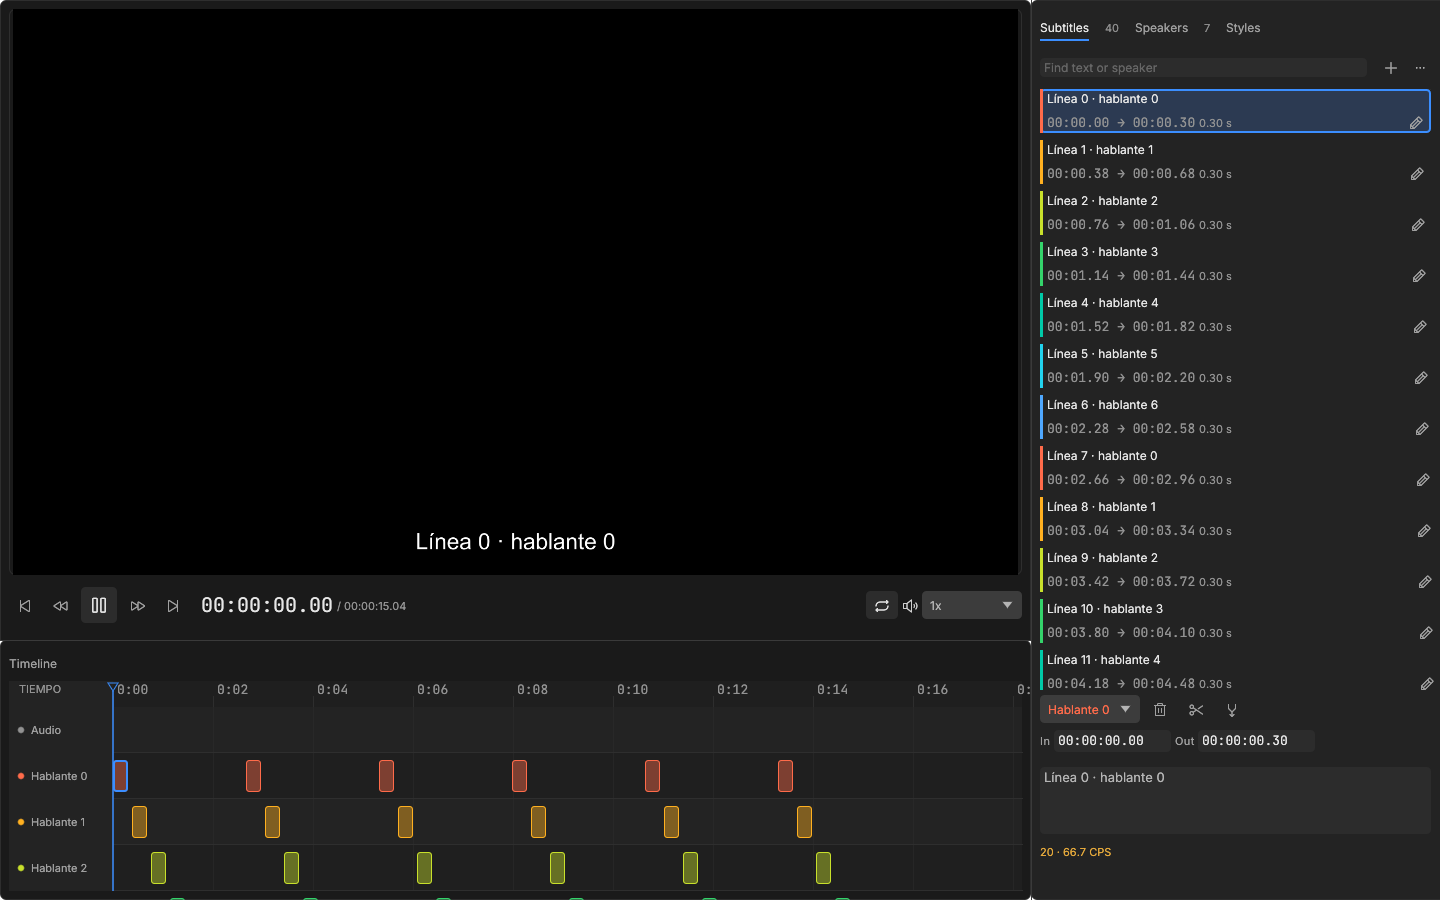
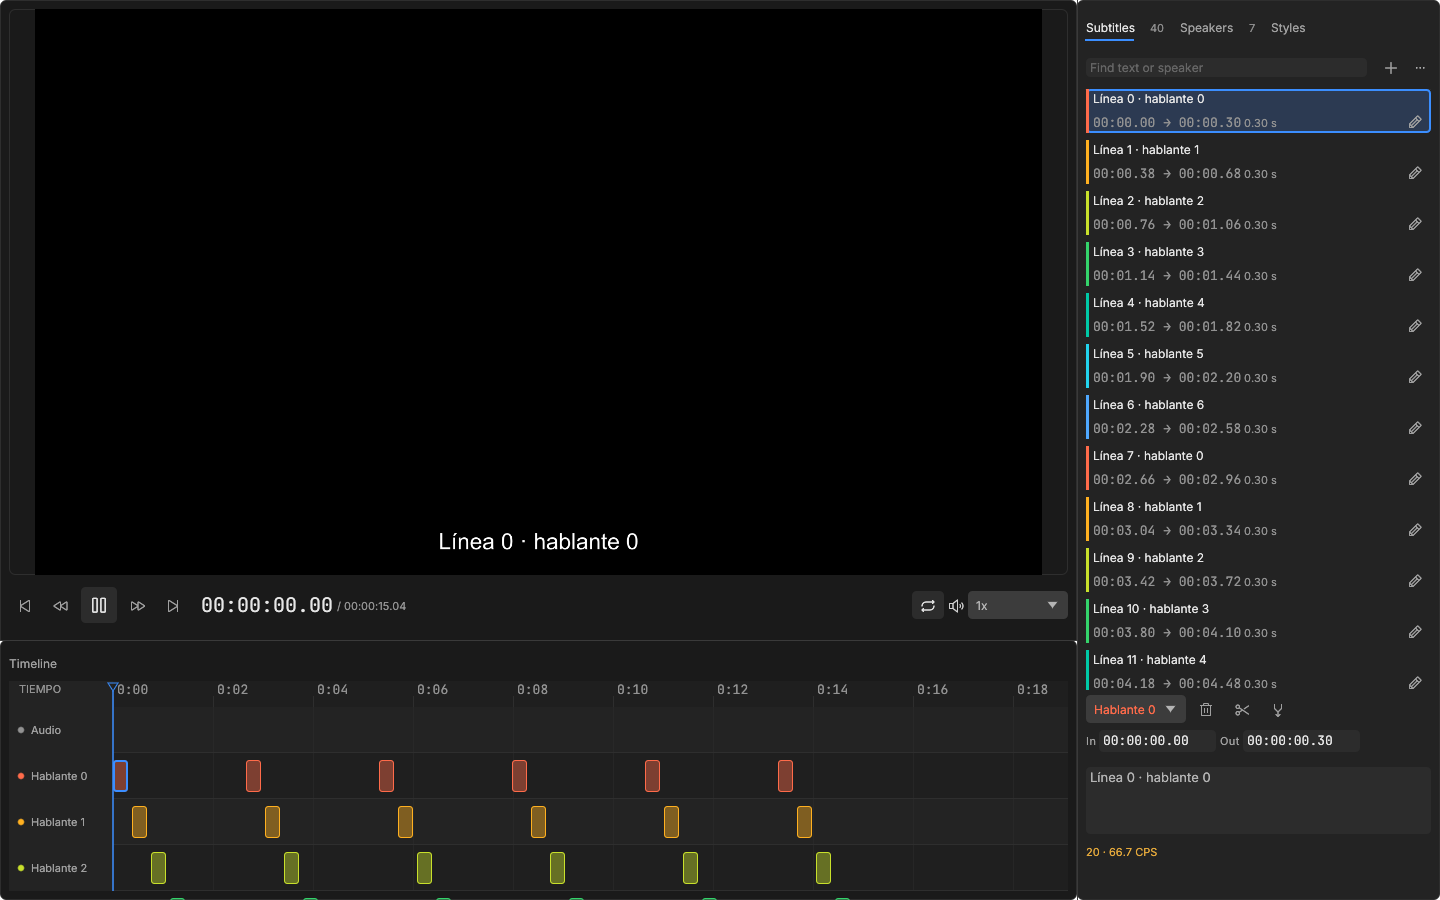
fix: evitar que el panel derecho crezca solo
El lapiz de cada fila usaba add_space(available - ancho), que sumaba el espaciado del layout y desbordaba min_rect; el SidePanel lo guardaba y crecia 1 px por frame. Ahora se coloca en un rect explicito con ui.put. El ancho se acota al persistir y un valor fuera de rango se descarta.

diff --git a/crates/app/tests/editor.rs b/crates/app/tests/editor.rs
@@ -1,8 +1,8 @@
-use std::sync::{Arc, Mutex};
+use std::sync::{Arc, Mutex};
 
 use egui_kittest::kittest::Queryable;
 use rod_app::comandos::MapaAtajos;
-use rod_app::editor_app::EditorApp;
+use rod_app::editor_app::{EditorApp, MensajeEditor};
 use rod_app::textos::ES;
 use rod_app::ui::editor::MedidasEditor;
 
@@ -38,4 +38,57 @@ fn el_editor_pinta_monitor_panel_y_timeline() {
     for etiqueta in ["Subtítulos", "Hablantes", "Estilos"] {
         assert!(h.query_all_by_label(etiqueta).count() >= 1, "{etiqueta}");
     }
+}
+
+/// El ancho del panel no debe crecer solo. Un `add_space(available - ancho)`
+/// en una fila desbordaba el `min_rect` un píxel por frame y el `SidePanel`
+/// lo guardaba como estado, hasta tocar el máximo.
+#[test]
+fn el_ancho_del_panel_no_crece_solo() {
+    let video = concat!(
+        env!("CARGO_MANIFEST_DIR"),
+        "/../../testdata/clip-15s-2audio.mp4"
+    );
+    let mut proyecto = rod_core::Proyecto::nuevo(video);
+    proyecto.captions.push(rod_core::Caption {
+        id: "cap-1".into(),
+        inicio: 7.13,
+        fin: 9.13,
+        texto: "hola".into(),
+        hablante_id: None,
+    });
+    let mut app = EditorApp::desde_proyecto_en(proyecto, None, 0.0, &std::env::temp_dir())
+        .expect("abre el clip de prueba");
+    rod_app::editor_app::update(&mut app, MensajeEditor::Seleccionar("cap-1".into()));
+
+    let mut h = egui_kittest::Harness::builder()
+        .with_size(egui::vec2(1440.0, 900.0))
+        .build_state(
+            |ctx, (editor, medidas): &mut Estado| {
+                rod_app::ui::tema::aplicar(ctx);
+                rod_app::ui::editor::show(
+                    ctx,
+                    editor,
+                    wgpu::TextureFormat::Bgra8Unorm,
+                    Arc::new(Mutex::new(None)),
+                    &ES,
+                    &MapaAtajos::por_defecto(),
+                    medidas,
+                );
+            },
+            (app, MedidasEditor::default()),
+        );
+
+    for _ in 0..10 {
+        h.run();
+    }
+    let inicial = h.state().1.ancho_panel;
+    for _ in 0..30 {
+        h.run();
+    }
+    let posterior = h.state().1.ancho_panel;
+    assert!(
+        (posterior - inicial).abs() < 1.0,
+        "el ancho creció de {inicial} a {posterior}"
+    );
 }

diff --git a/crates/app/src/ui/paneles/subtitulos.rs b/crates/app/src/ui/paneles/subtitulos.rs
@@ -243,20 +243,23 @@ fn dibujar_lista(
                                         .font(tema::fuente(Estilo::Pequeno))
                                         .color(tema::TEXTO_3),
                                     );
-                                    ui.add_space(ui.available_width() - tema::ALTO_CHIP);
-                                    if kit::icon_button(
-                                        ui,
-                                        Icono::Editar,
-                                        false,
-                                        textos.editar,
-                                        None,
-                                    )
-                                    .clicked()
-                                    {
-                                        state.inline =
-                                            Some((caption.id.clone(), caption.texto.clone()));
-                                    }
                                 });
+                                // El lápiz se coloca en un rect explícito: un
+                                // `add_space(available - ancho)` desbordaba el
+                                // min_rect del SidePanel 1 px por frame.
+                                let boton = egui::Rect::from_min_max(
+                                    egui::pos2(
+                                        fila.max.x - tema::ALTO_CHIP - tema::ESP_4,
+                                        fila.max.y - tema::ALTO_CHIP - tema::ESP_2,
+                                    ),
+                                    egui::pos2(fila.max.x - tema::ESP_4, fila.max.y - tema::ESP_2),
+                                );
+                                if kit::icon_button_en(ui, boton, Icono::Editar, textos.editar)
+                                    .clicked()
+                                {
+                                    state.inline =
+                                        Some((caption.id.clone(), caption.texto.clone()));
+                                }
                             }
                         });
                     });

diff --git a/crates/app/src/ui/kit.rs b/crates/app/src/ui/kit.rs
@@ -1,7 +1,7 @@
 //! Componentes compartidos. Ningún widget suelto en las vistas: tamaños,
 //! colores y tipografía vienen siempre de `tema`.
 
-use egui::{Color32, CornerRadius, FontId, Response, RichText, Sense, Stroke, Ui, Vec2};
+use egui::{Color32, CornerRadius, FontId, Rect, Response, RichText, Sense, Stroke, Ui, Vec2};
 
 use super::tema::{self, Estilo};
 use crate::editor_app::Panel;
@@ -182,6 +182,26 @@ pub fn icon_button(
         if let Some(atajo) = atajo {
             ui.label(RichText::new(atajo).font(tema::fuente(Estilo::Mono)));
         }
+    })
+}
+
+/// Icono colocado en un rect explícito: no consume ancho del layout, así que
+/// no puede desbordar el `min_rect` del panel que lo contiene.
+pub fn icon_button_en(ui: &mut Ui, rect: Rect, icono: Icono, tooltip: &str) -> Response {
+    let respuesta = ui.put(
+        rect,
+        egui::Button::new(
+            RichText::new(glifo(icono))
+                .font(FontId::proportional(tema::TAMANO_ICONO))
+                .color(tema::TEXTO_2),
+        )
+        .fill(Color32::TRANSPARENT)
+        .stroke(Stroke::NONE)
+        .corner_radius(CornerRadius::same(tema::RADIO_CONTROL as u8))
+        .min_size(rect.size()),
+    );
+    respuesta.on_hover_ui(|ui| {
+        ui.label(RichText::new(tooltip).font(tema::fuente(Estilo::Base)));
     })
 }
 

diff --git a/crates/app/src/ui/editor.rs b/crates/app/src/ui/editor.rs
@@ -35,8 +35,16 @@ impl Default for MedidasEditor {
 
 impl From<&Preferencias> for MedidasEditor {
     fn from(prefs: &Preferencias) -> Self {
+        // Un ancho fuera de rango es un valor corrupto (p. ej. el crecido
+        // por el bug del lápiz): se descarta en vez de arrastrar el panel.
+        let ancho = if !(tema::ANCHO_PANEL_MIN..=tema::ANCHO_PANEL_MAX).contains(&prefs.ancho_panel)
+        {
+            tema::ANCHO_PANEL_DEFECTO
+        } else {
+            prefs.ancho_panel
+        };
         Self {
-            ancho_panel: prefs.ancho_panel,
+            ancho_panel: ancho,
             alto_timeline: prefs.alto_timeline,
             panel_visible: prefs.panel_visible,
         }
@@ -83,7 +91,12 @@ pub fn show(
                     Panel::Estilos => mensajes.extend(estilos::mostrar(ui, state, textos)),
                 }
             });
-        medidas.ancho_panel = lado.response.rect.width();
+        // El rect devuelto incluye el marco: nunca debe exceder el máximo.
+        medidas.ancho_panel = lado
+            .response
+            .rect
+            .width()
+            .clamp(tema::ANCHO_PANEL_MIN, tema::ANCHO_PANEL_MAX);
     }
 
     let abajo = egui::TopBottomPanel::bottom("timeline")

diff --git a/BITACORA.md b/BITACORA.md
@@ -17,6 +17,14 @@
   pestañas de 36 px con badges; lista con búsqueda y panel fijo de inspector;
   Speakers con tarjetas y paleta saturada en popover; Styles con vista previa
   y campos rotulados; `Apply` desaparece (edición en vivo).
+- Sidebar que crecía sola: en cada fila, `add_space(available - ALTO_CHIP)`
+  para el lápiz sumaba el espaciado del layout y desbordaba `min_rect`; el
+  `SidePanel` guardaba ese rect como estado y volvía a aplicarlo al frame
+  siguiente (+1 px/frame hasta el máximo). El lápiz ahora se coloca con
+  `ui.put` en un rect explícito (`icon_button_en`), sin consumir ancho del
+  layout. Regresión en `tests/editor.rs` con el tema aplicado (sin él el bug
+  no aparece). El ancho se acota al persistir y un valor fuera de rango se
+  descarta.
 - Corrección de la lista de subtítulos: el `ScrollArea` anidado comía el alto
   y el inspector se pintaba encima. Ahora cada zona tiene un rect explícito
   (barra 36 px / lista acotada / inspector fijo); las filas son de 44 px con
